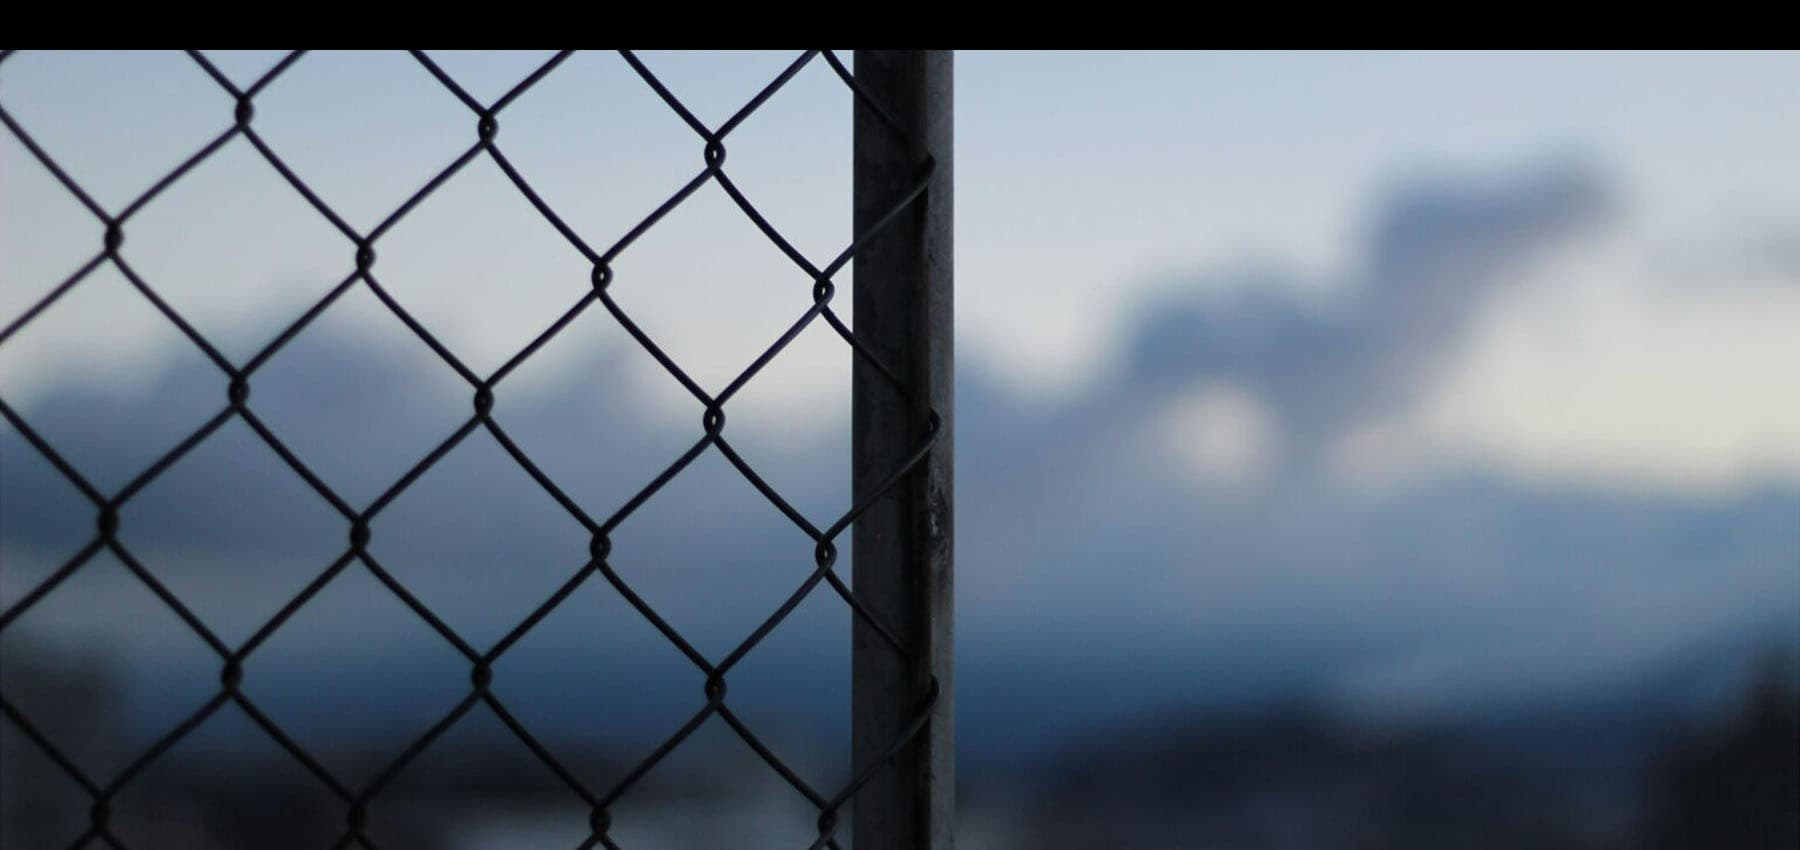
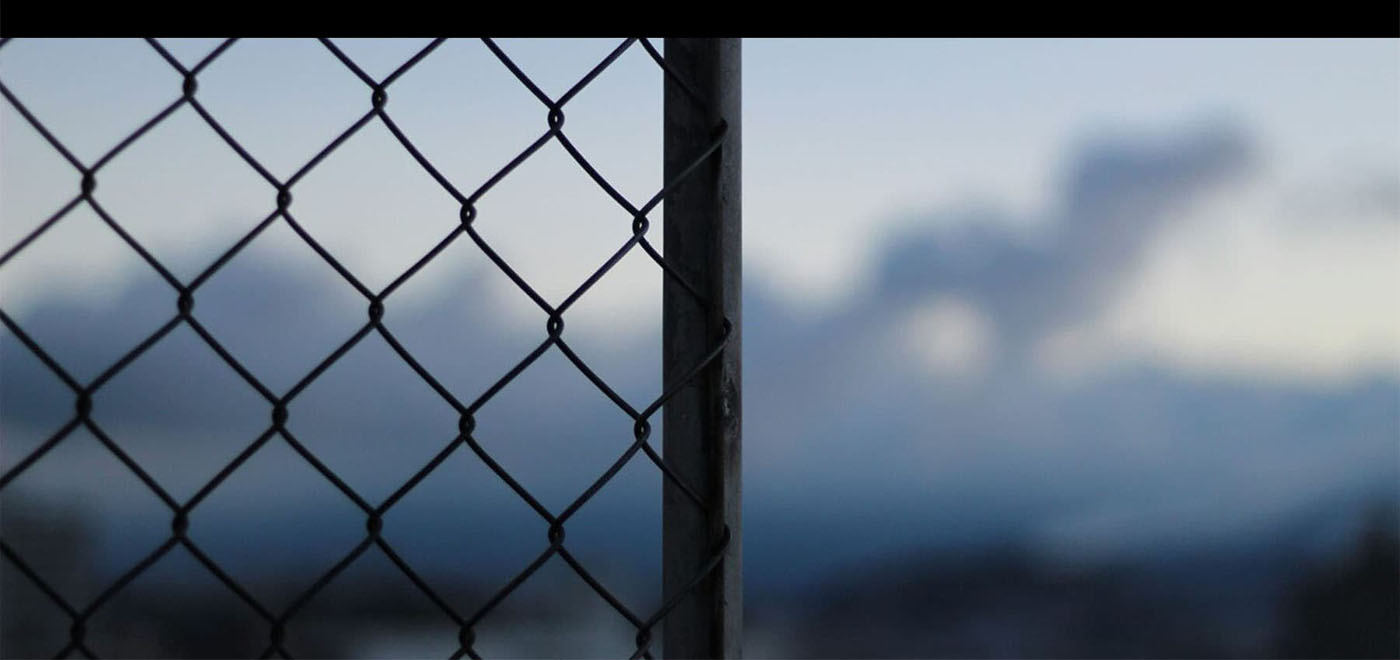
mb005

diff --git a/docs/index.html b/docs/index.html
@@ -1700,7 +1700,7 @@
         <div class="about__cell" style="max-width: 700px; min-height: 270px; text-align: center; ">
 
                               <div class="#" style=" text-align: center; margin: 10px;" >
-                                <h2 style="color:var(--bauhaus-white);">bankruptcy | Банкротство</h2>
+                                <h3 style="color:var(--bauhaus-white);">bankruptcy | Банкротство</h3>
                                 <h5 class="text-center" style="font-size: 12px; line-height: 120%; text-align: left; color: var(--color-graphite);">
                                 Наши юристы вот уже двадцать пять лет изо дня в день участвуют в судебных процессах. Это дает нам ценный опыт,
                                 необходимый для эффективного построения стратегии и тактики процесса. Ведь только практика дает понимание того, как
@@ -1913,8 +1913,8 @@
             <!-- ========================================= -->
             <div
               style="padding: 15px; grid-column: span 5; background-color: #000000; border: 1px solid rgba(128, 128, 128, 0.1); overflow: hidden; min-height: 120px;">
-              <p style="font-size: 16px; line-height: 1.4; color: #ffcc00; margin-bottom: 18px; text-align: center;">
-                Уголовные преступления | Профессиональная защита на всех этапах уголовного процесса</p>
+              <p style="font-size: 16px; margin-bottom: 8px; color: #ffcc00; text-align: center;">
+                Уголовные преступления</p>
               <img src="img/slider/invest.jpg" alt="img/slider/invest.jpg"
                 style="width: 100%; height: 100%; object-fit: cover; display: block; min-height: 300px;">
             </div>
@@ -1924,6 +1924,8 @@
             <!-- ========================================= -->
             <div
               style="grid-column: span 2; background-color: #000000; border: 1px solid rgba(128, 128, 128, 0.1); overflow: hidden; min-height: 120px;">
+              <p style="font-size: 16px; color: #ff1493; margin-bottom: 8px; text-align: center;">Защита по делам о
+              наркотиках</p>
               <img src="img/slider/post1.jpg" alt="img/slider/post1.jpg"
                 style="width: 100%; height: 100%; object-fit: cover; display: block;">
             </div>
@@ -1931,8 +1933,8 @@
             <div
               style="background-color: #000000; border: 1px solid rgba(128, 128, 128, 0.1); overflow: hidden; min-height: 120px;">
               <div style="padding: 5px; color: white; height: 100%; text-align: center;">
-                <p style="font-size: 16px; color: #ff6347; margin-bottom: 8px; text-align: center;">depo-500 | депо-500</p>
-                <p style="font-size: 13px; line-height: 1.4; color: #00bfff; text-align: left;">
+                <p style="font-size: 16px; color: #ff6347; margin-bottom: 8px; text-align: center;">Car Loan</p>
+                <p style="font-size: 12px; line-height: 1.4; color: #00bfff; text-align: left;">
                   depo-500 is a team of experienced, multi-award-winning lawyers. When your freedom or career is on the
                   line, you can rely on our team, which has been handling complex cases for over 10 years and delivering the
                   best possible outcomes for our clients. Our attorneys have handled more than 90 cases and court
@@ -1950,6 +1952,7 @@
 
             <div
               style="background-color: #000000; border: 1px solid rgba(128, 128, 128, 0.1); overflow: hidden; min-height: 120px;">
+              <p style="font-size: 16px; color: #ff1493; margin-bottom: 8px; text-align: center;">Автокредит</p>
               <img src="img/slider/m200.jpg" alt="img/slider/m200.jpg"
                 style="width: 100%; height: 100%; object-fit: cover; display: block;">
             </div>
@@ -1957,9 +1960,8 @@
             <div
               style="background-color: #000000; border: 1px solid rgba(128, 128, 128, 0.1); overflow: hidden; min-height: 120px;">
               <div style="padding: 5px; color: white; height: 100%; text-align: center;">
-                <p style="font-size: 16px; line-height: 1.4; color: #ff69b4; text-align: center;">Защита по делам о
-                  наркотиках | Drug Offense Defense</p>
-                <p style="font-size: 13px; line-height: 1.4; color: #7fff00; text-align: left;">
+                <p style="font-size: 16px;  color: #ff69b4; text-align: center;"> Drug Offense Defense</p>
+                <p style="font-size: 12px; line-height: 1.4; color: #7fff00; text-align: left;">
                   Независимо от тяжести обвинения, не стоит пытаться разобраться с уголовными делами самостоятельно. Из-за
                   серьезных последствий, к которым может привести обвинительный приговор по делу о нападении, всегда разумно
                   обратиться за помощью к адвокату, имеющему опыт защиты по таким делам. Наши адвокаты встретятся с вами
@@ -1976,8 +1978,8 @@
             <div
               style="background-color: #000000; border: 1px solid rgba(128, 128, 128, 0.1); overflow: hidden; min-height: 120px;">
               <div style="padding: 5px; color: white; height: 100%; text-align: center;">
-                <p style="font-size: 16px; line-height: 1.4; color: #ffa500; text-align: center;">Коллективный опыт |
-                  Collective Experience</p>
+                <p style="font-size: 16px; margin-bottom: 8px; color: #ffa500; text-align: center;">Коллективный опыт
+                  </p>
                 <img src="img/slider/wes.jpg" alt="img/slider/wes.jpg"
                   style="width: 100%; height: 100%; object-fit: cover; display: block;">
               </div>
@@ -1985,6 +1987,8 @@
 
             <div
               style="grid-column: span 2; background-color: #000000; border: 1px solid rgba(128, 128, 128, 0.1); overflow: hidden; min-height: 120px;">
+              <p style="font-size: 16px; margin-bottom: 8px; color: #ffa500; text-align: center;">
+                Collective Experience</p>
               <img src="img/slider/speed.jpg" alt="img/slider/speed.jpg"
                 style="width: 100%; height: 100%; object-fit: cover; display: block;">
             </div>
@@ -2001,6 +2005,9 @@
             <!-- ========================================= -->
             <div
               style="grid-column: span 3; grid-row: span 2; background-color: #000000; border: 1px solid rgba(128, 128, 128, 0.1); overflow: hidden; min-height: 120px;">
+              <p style="font-size: 16px; margin-bottom: 8px; color: #ff4500; text-align: center;">
+              Защита по делам о
+              наркотиках | Drug Defense</p>
               <img src="img/slider/matt.jpg" alt="img/slider/w800.jpg"
                 style="width: 100%; height: 100%; object-fit: cover; display: block;">
             </div>
@@ -2008,8 +2015,8 @@
             <div
               style="background-color: #000000; border: 1px solid rgba(128, 128, 128, 0.1); overflow: hidden; min-height: 120px;">
               <div style="padding: 5px; color: white; height: 100%; text-align: center;">
-                <p style="font-size: 16px; line-height: 1.4; color: #ff4500; text-align: center;">Защита по делам о
-                  наркотиках | Drug Defense</p>
+                <p style="font-size: 16px; margin-bottom: 8px; color: #ff4500; text-align: center;">
+                  Drug Defense</p>
                 <img src="img/slider/gavel.jpg" alt="img/slider/gavel.jpg"
                   style="width: 100%; height: 100%; object-fit: cover; display: block;">
               </div>
@@ -2017,6 +2024,8 @@
 
             <div
               style="background-color: #000000; border: 1px solid rgba(128, 128, 128, 0.1); overflow: hidden; min-height: 120px;">
+              <p style="font-size: 16px; margin-bottom: 8px; color: #ff4500; text-align: center;">
+                Drug Defense</p>
               <img src="img/slider/un.jpg" alt="img/slider/un.jpg"
                 style="width: 100%; height: 100%; object-fit: cover; display: block;">
             </div>
@@ -2027,8 +2036,8 @@
             <div
               style="background-color: #000000; border: 1px solid rgba(128, 128, 128, 0.1); overflow: hidden; min-height: 120px;">
               <div style="padding: 5px; color: white; height: 100%; text-align: center;">
-                <p style="font-size: 16px; line-height: 1.4; color: #32cd32; text-align: center;">Убийство первой степени |
-                  First-Degree Murder</p>
+                <p style="font-size: 16px; margin-bottom: 8px; color: #32cd32; text-align: center;">Убийство первой степени
+                  </p>
                 <img src="img/slider/thomas.jpg" alt="img/slider/thomas.jpg"
                   style="width: 100%; height: 100%; object-fit: cover; display: block;">
               </div>
@@ -2037,8 +2046,8 @@
             <div
               style="background-color: #000000; border: 1px solid rgba(128, 128, 128, 0.1); overflow: hidden; min-height: 120px;">
               <div style="padding: 5px; color: white; height: 100%; text-align: center;">
-                <p style="font-size: 16px; line-height: 1.4; color: #ff00ff; text-align: center;">Сексуальные преступления |
-                  Sexual Offenses</p>
+                <p style="font-size: 16px; margin-bottom: 8px; color: #ff00ff; text-align: center;">Сексуальные преступления
+                  </p>
                 <img src="img/slider/charles.jpg" alt="img/slider/th.jpg"
                   style="width: 100%; height: 100%; object-fit: cover; display: block;">
               </div>
@@ -2049,7 +2058,9 @@
             <!-- ========================================= -->
             <div
               style="grid-column: span 5; background-color: #000000; border: 1px solid rgba(128, 128, 128, 0.1); overflow: hidden; min-height: 120px;">
-              <img src="img/slider/dr.jpg" alt="img/slider/invest.jpg"
+              <p style="font-size: 16px; margin-bottom: 8px; color: #ffcc00; text-align: center;">
+                Уголовные преступления | Профессиональная защита на всех этапах уголовного процесса</p>
+              <img src="img/slider/dr.jpg" alt="img/slider/dr.jpg"
                 style="width: 100%; height: 100%; object-fit: cover; display: block;">
             </div>
 
@@ -2058,6 +2069,8 @@
             <!-- ========================================= -->
             <div
               style="background-color: #000000; border: 1px solid rgba(128, 128, 128, 0.1); overflow: hidden; min-height: 120px;">
+                <p style="font-size: 16px; margin-bottom: 8px; color: #40e0d0; text-align: center;"> 24/7
+                  Support</p>
               <img src="img/slider/frame.jpeg" alt="img/slider/frame.jpeg"
                 style="width: 100%; height: 100%; object-fit: cover; display: block;">
             </div>
@@ -2065,10 +2078,9 @@
             <div
               style="grid-column: span 2; background-color: #000000; border: 1px solid rgba(128, 128, 128, 0.1); overflow: hidden; min-height: 120px;">
               <div style="padding: 5px; color: white; height: 100%; text-align: center;">
-                <p style="font-size: 16px; margin-bottom: 0px; color: #ffd700; text-align: center;">Индивидуальный подход |
+                <p style="font-size: 16px; margin-bottom: 8px; color: #ffd700; text-align: center;">Индивидуальный подход |
                   Individual Approach</p>
-                <p style="font-size: 13px; line-height: 1.1; color: #87ceeb; text-align: center;">Несовершеннолетние |
-                  Профессионалы | Лица с судимостями</p>
+
                 <img src="img/slider/wgp.jpg" alt="img/slider/wgp.jpg"
                   style="width: 100%; height: 100%; object-fit: cover; display: block;">
               </div>
@@ -2076,8 +2088,7 @@
 
             <div
               style="background-color: #000000; border: 1px solid rgba(128, 128, 128, 0.1); overflow: hidden; min-height: 120px;">
-              <p style="font-size: 16px; line-height: 1.4; color: #fa8072; text-align: center;">Владение оружием | Weapon
-                Possession</p>
+              <p style="font-size: 16px; margin-bottom: 8px; color: #fa8072; text-align: center;">Владение оружием </p>
               <img src="img/slider/r.jpg" alt="img/slider/r.jpg"
                 style="width: 100%; height: 100%; object-fit: cover; display: block;">
             </div>
@@ -2085,7 +2096,7 @@
             <div
               style="background-color: #000000; border: 1px solid rgba(128, 128, 128, 0.1); overflow: hidden; min-height: 120px;">
               <div style="padding: 5px; color: white; height: 100%; text-align: center;">
-                <p style="font-size: 16px; line-height: 1.4; color: #40e0d0; text-align: center;">24/7 поддержка | 24/7
+                <p style="font-size: 16px; margin-bottom: 8px; color: #40e0d0; text-align: center;">24/7 поддержка | 24/7
                   Support</p>
                 <img src="img/slider/daniel.jpg" alt="img/slider/daniel.jpg"
                   style="width: 100%; height: 100%; object-fit: cover; display: block;">
@@ -2104,12 +2115,13 @@
             <div
               style="background-color: #000000; border: 1px solid rgba(128, 128, 128, 0.1); overflow: hidden; min-height: 120px;">
               <div style="padding: 5px; color: white; height: 100%; text-align: center;">
-                <p style="font-size: 13px; line-height: 1.4; color: #ffa07a; text-align: left;">
+                <p style="font-size: 12px; line-height: 1.4; color: #ffa07a; text-align: left;">
                   Бегство от сотрудника полиции является серьезным правонарушением, предусмотренным Уголовным кодексом. Если
                   вы не остановитесь по требованию сотрудника полиции в течение разумного времени или будете убегать от
                   полиции, если вас преследуют, вас могут обвинить в бегстве от полиции. Если вас признают виновным, это
                   будет означать, что у вас есть судимость, и вам может грозить штраф или даже тюремное заключение.
-                  <br><br>
+                  <br>
+                  <br>
                   Fleeing from a police officer is a serious offense under the Criminal Code. If you fail to stop when a
                   police officer orders you to do so within a reasonable amount of time, or if you run away from the police
                   while being pursued, you may be charged with fleeing from law enforcement. If convicted, it will result in
@@ -2171,7 +2183,7 @@
               style="background-color: #000000; border: 1px solid rgba(128, 128, 128, 0.1); overflow: hidden; min-height: 120px;">
               <div style="padding: 5px; color: white; height: 100%; text-align: center;">
                 <p style="font-size: 16px; color: #ff4500; margin-bottom: 8px; text-align: center;">Dangerous Driving</p>
-                <p style="font-size: 13px; line-height: 1.4; color: #00bfff; text-align: left;">
+                <p style="font-size: 12px; line-height: 1.4; color: #00bfff; text-align: left;">
                   depo-500 — это команда опытных адвокатов, удостоенная множества наград. Когда на кону ваша свобода или
                   карьера, вы можете положиться на нашу команду, которая уже более 10 лет ведет сложные дела и добивается
                   для вас наилучшего исхода. Наши адвокаты вели более 90 дел и судебных процессов.
@@ -2197,7 +2209,7 @@
               <div style="padding: 5px; color: white; height: 100%; text-align: center;">
                 <p style="font-size: 16px; line-height: 1.4; color: #48d1cc; text-align: center;">Опасное вождение
                   </p>
-                <p style="font-size: 13px; line-height: 1.4; color: #ffa500; text-align: left;">
+                <p style="font-size: 12px; line-height: 1.4; color: #ffa500; text-align: left;">
                   Бегство от сотрудника полиции является серьезным правонарушением, предусмотренным Уголовным кодексом. Если
                   вы не остановитесь по требованию сотрудника полиции в течение разумного времени или будете убегать от
                   полиции, если вас преследуют, вас могут обвинить в бегстве от полиции. Если вас признают виновным, это